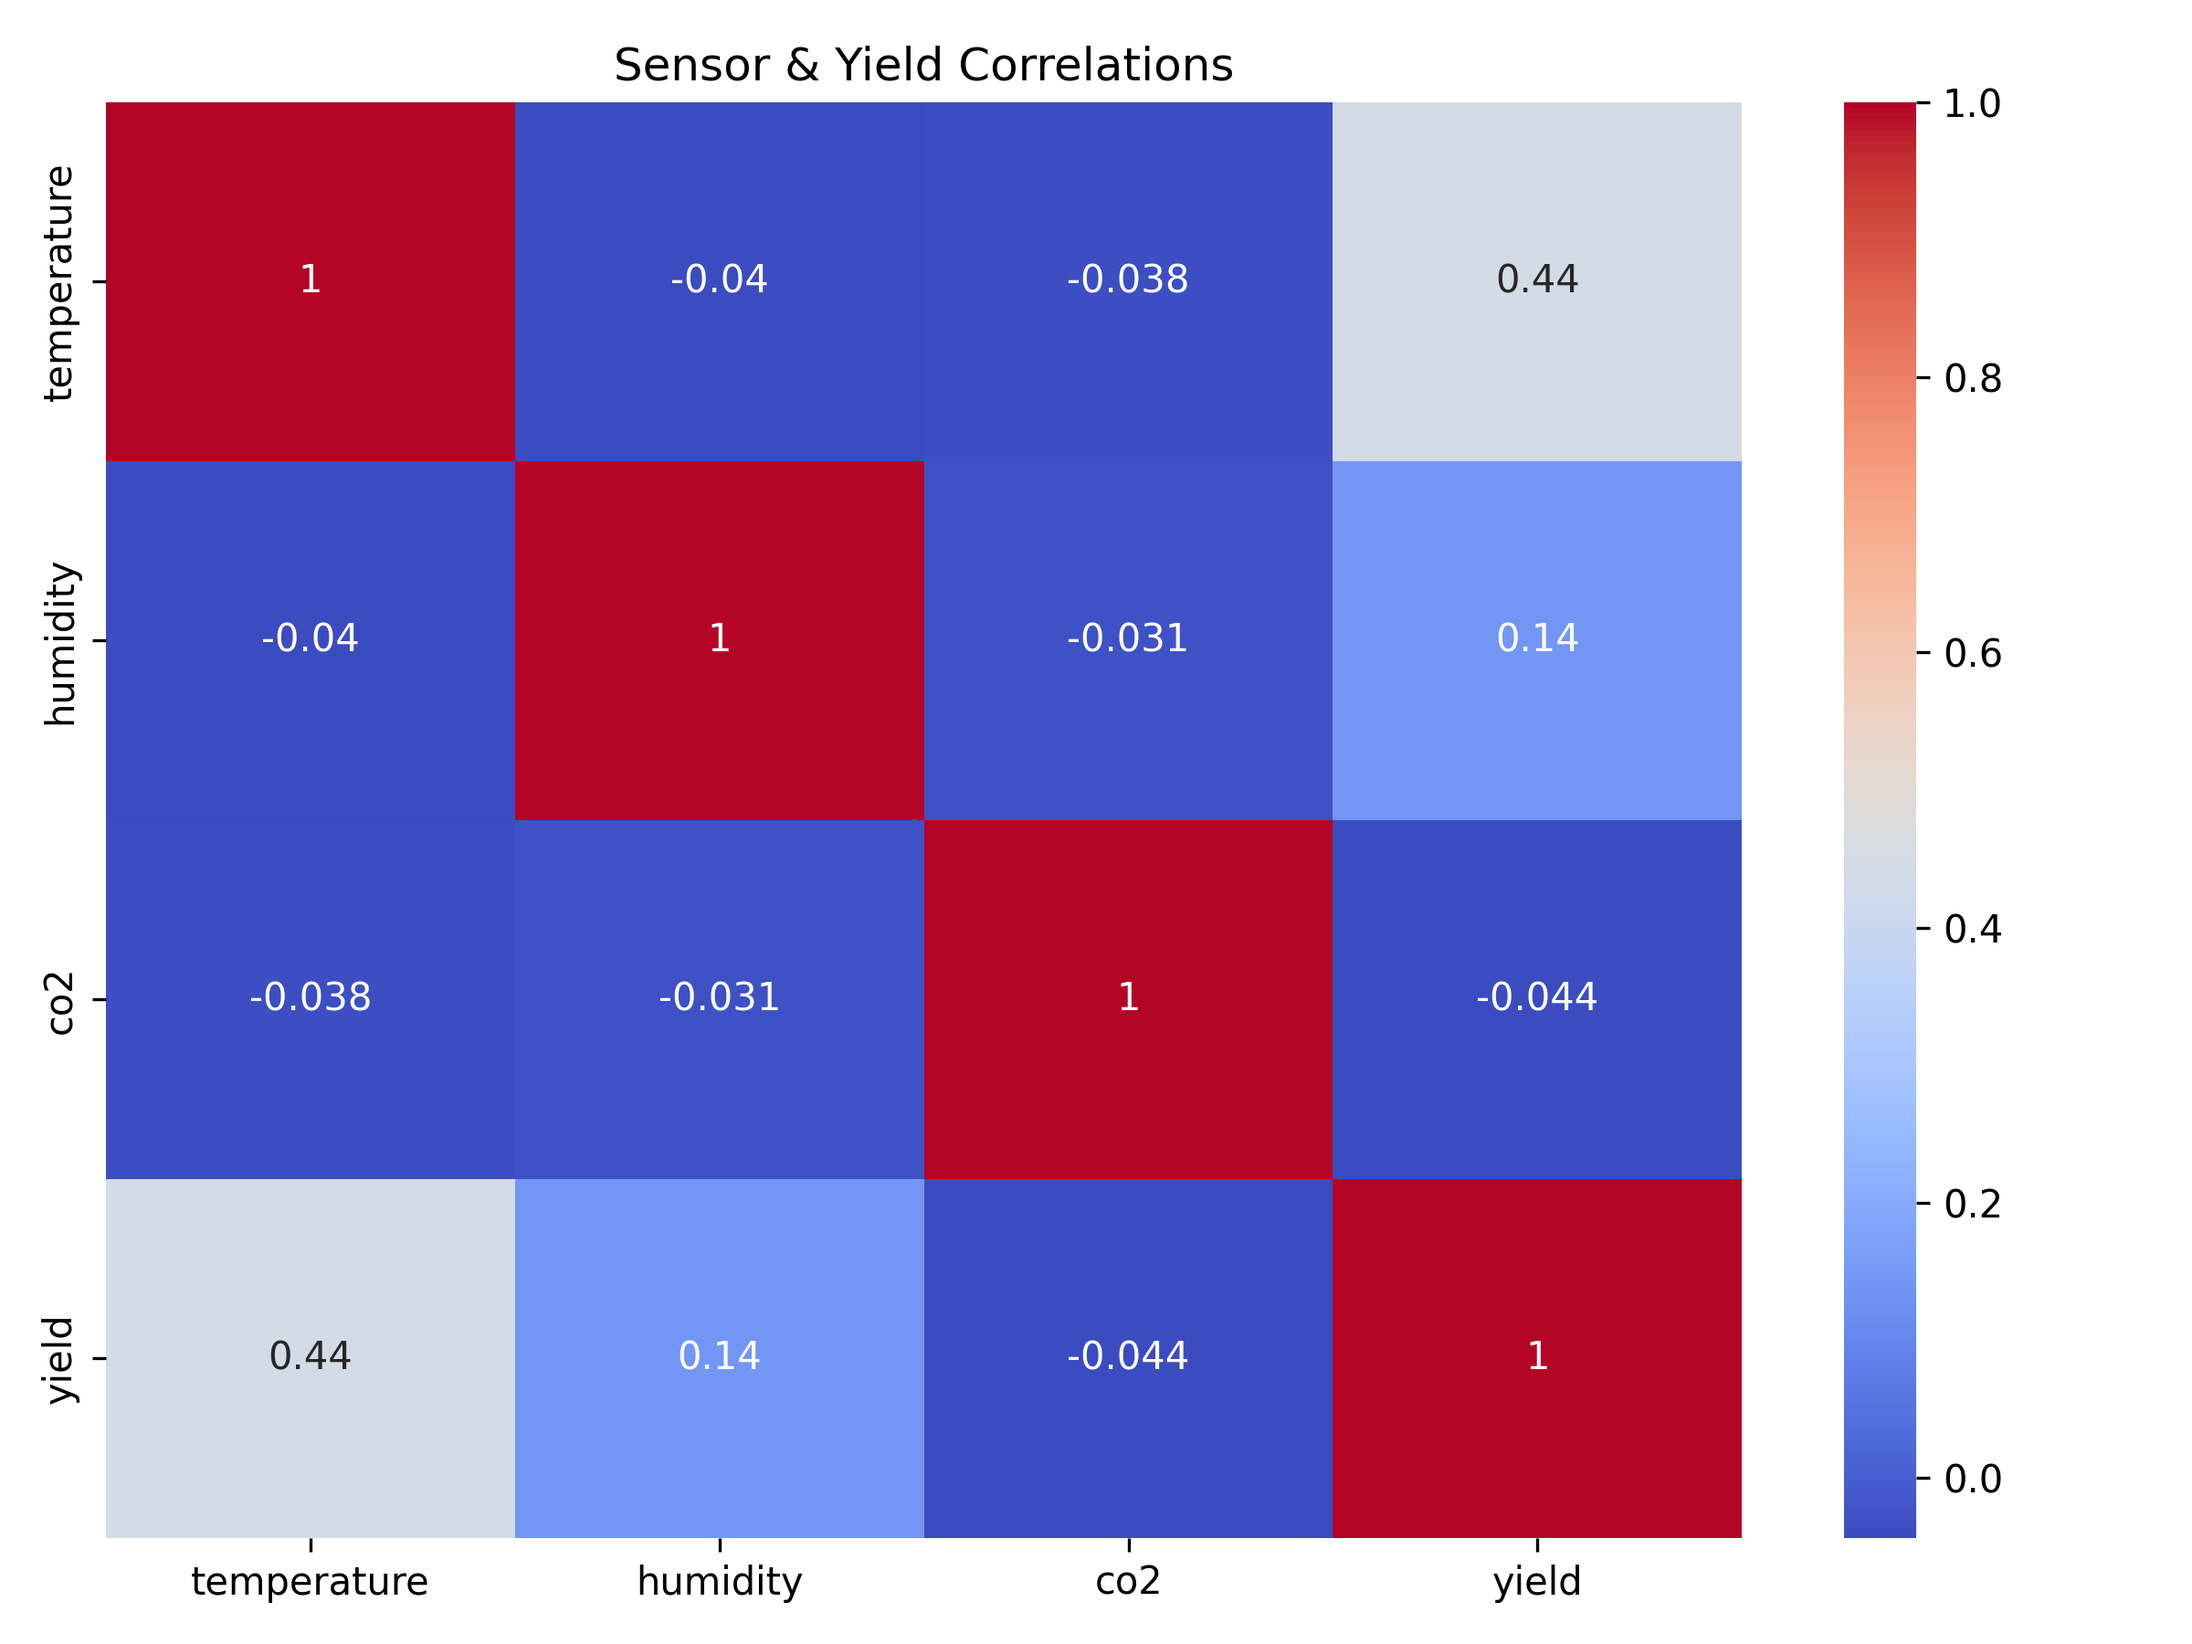
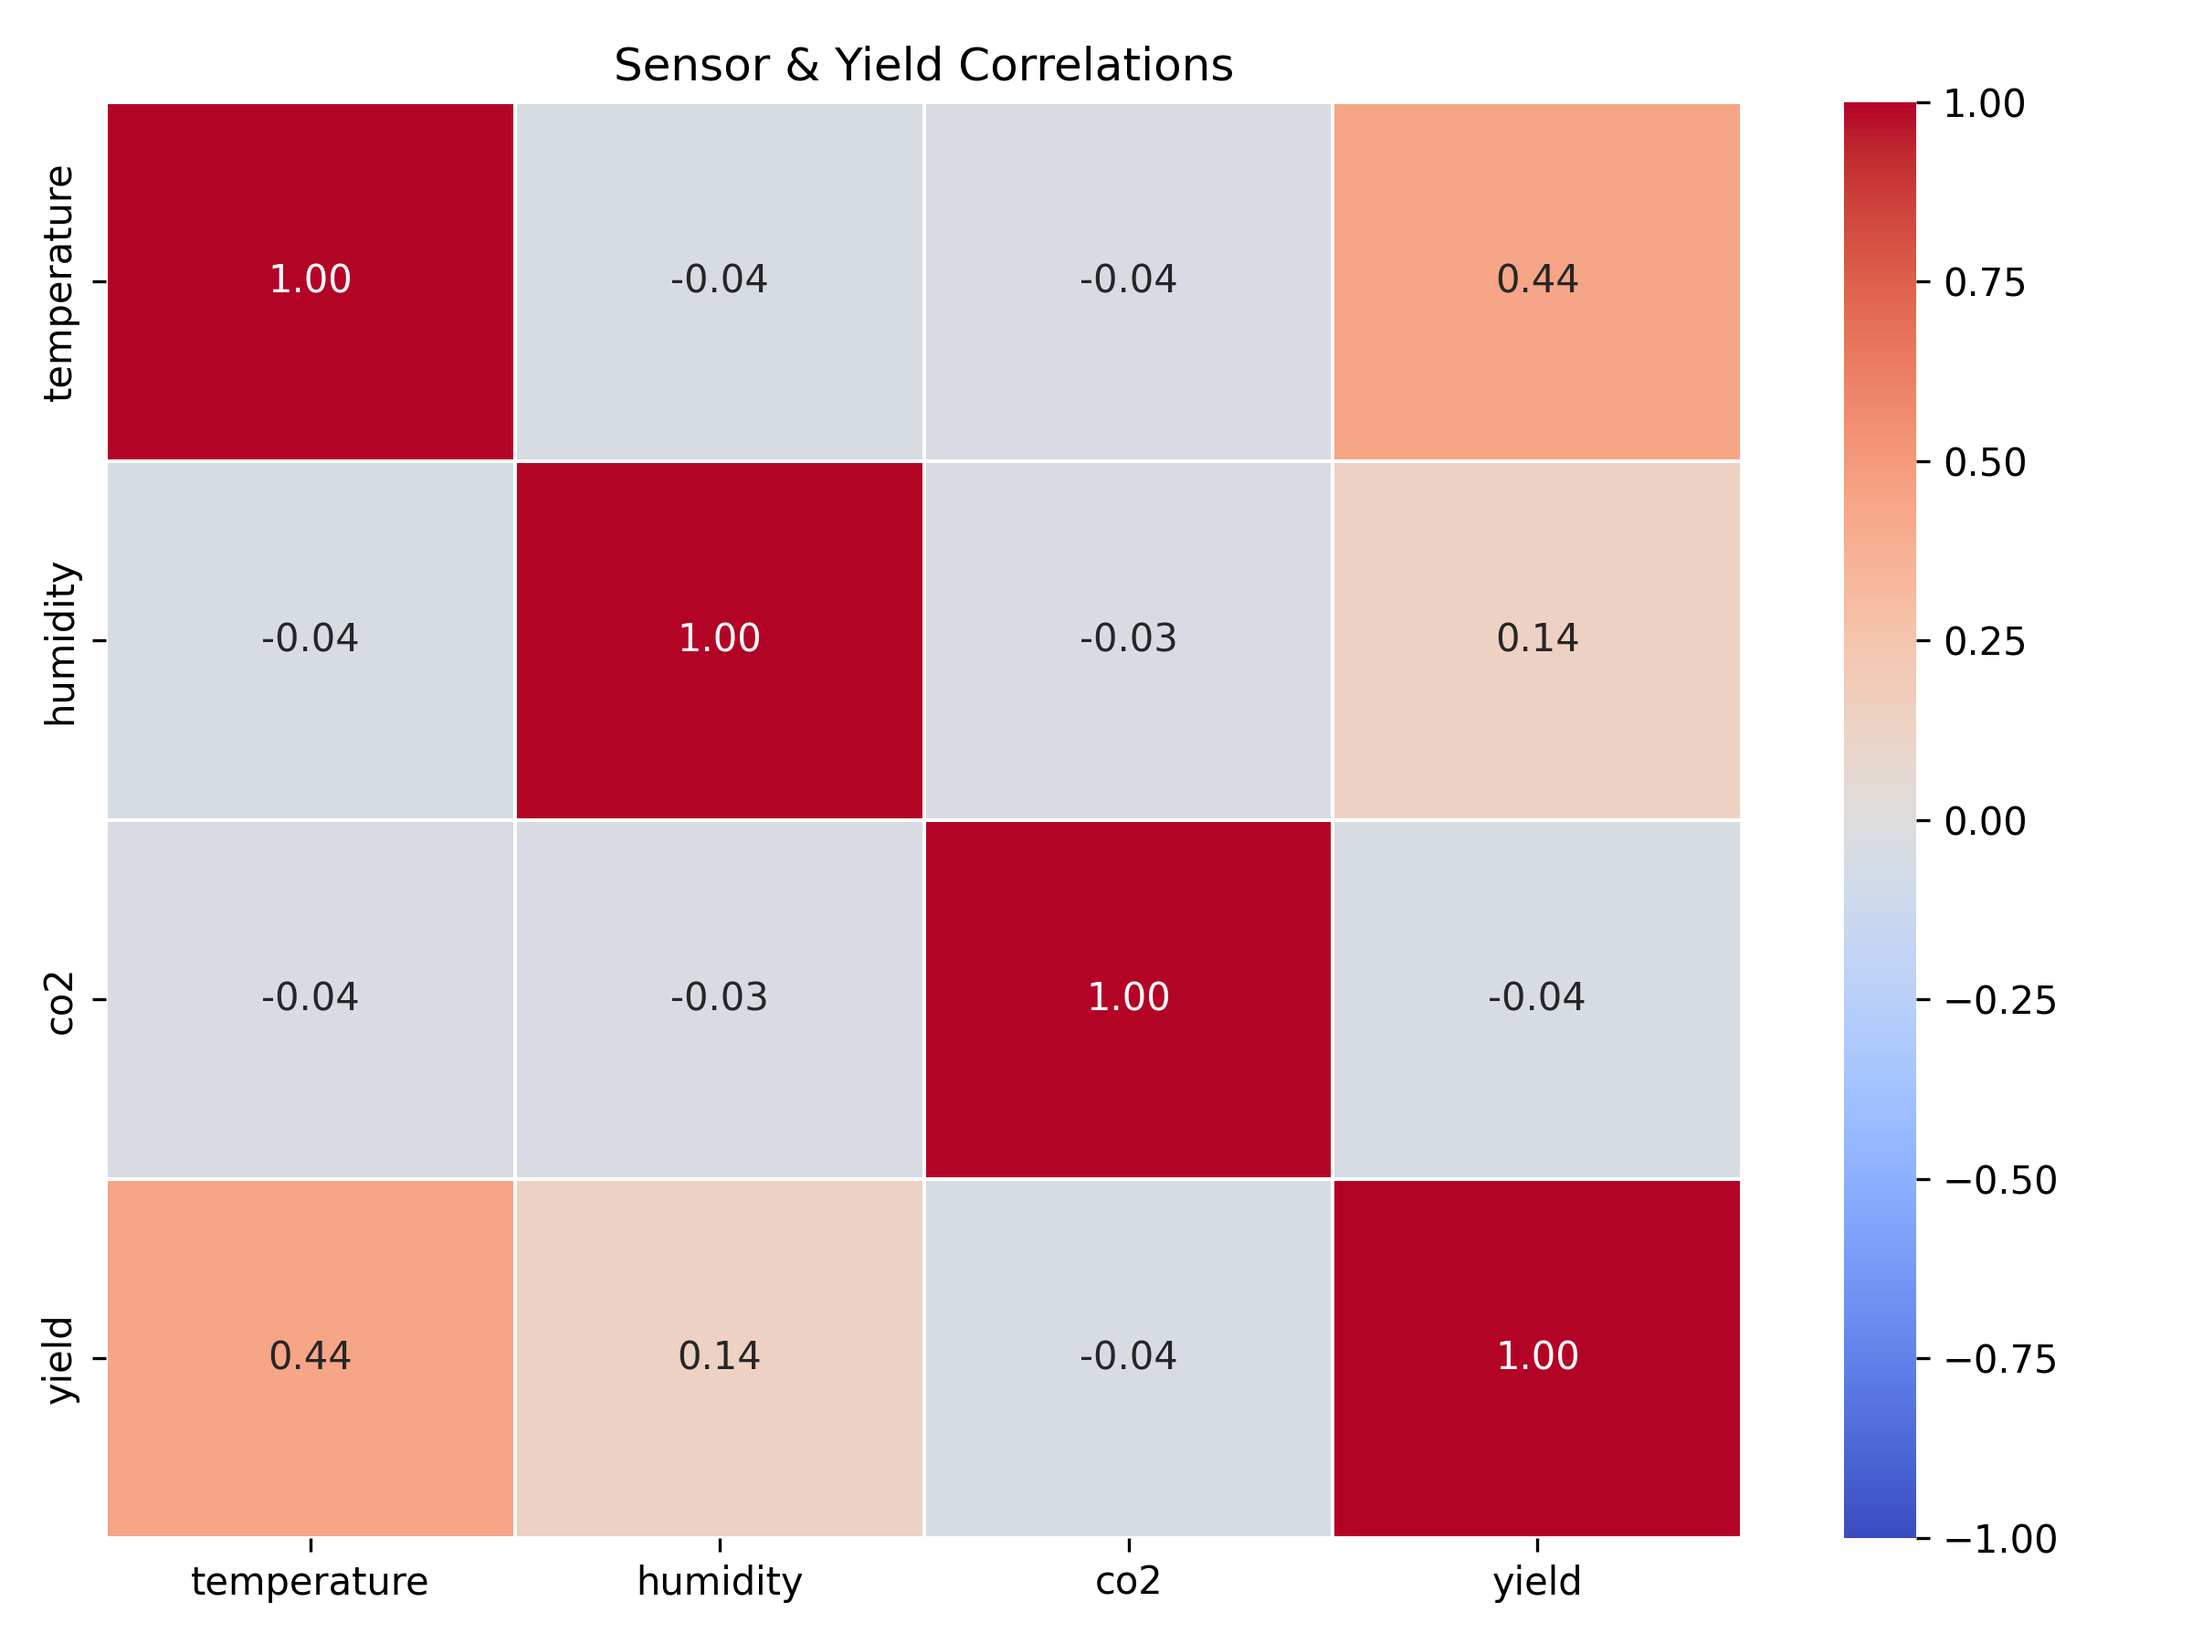
Update EDA heatmap and analysis

diff --git a/src/eda.py b/src/eda.py
@@ -71,12 +71,24 @@ for col in df.columns:
 
 numeric_df = df.select_dtypes(include="number")
 
+# Calculate correlation matrix
+corr_matrix = numeric_df.corr()
+
+# Print correlation matrix in terminal
+print("\nCorrelation Matrix:")
+print(corr_matrix)
+
 plt.figure(figsize=(8, 6))
 
 sns.heatmap(
-    numeric_df.corr(),
+    corr_matrix,
     annot=True,
-    cmap="coolwarm"
+    fmt=".2f",
+    cmap="coolwarm",
+    vmin=-1,          # Fix color scale minimum
+    vmax=1,           # Fix color scale maximum
+    center=0,         # White color at zero correlation
+    linewidths=0.5
 )
 
 plt.title("Sensor & Yield Correlations")
@@ -88,6 +100,7 @@ plt.savefig(
     dpi=300
 )
 
+plt.show()      # Display heatmap on screen
 plt.close()
 
 # ==========================================
